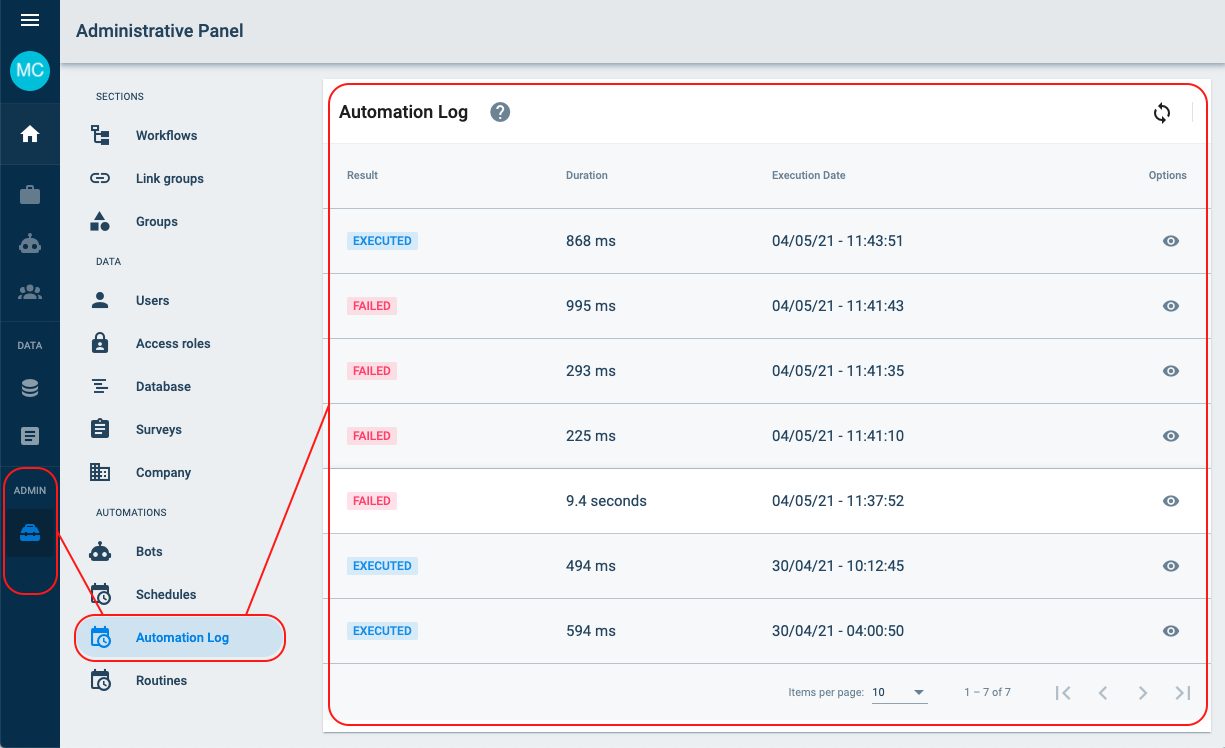
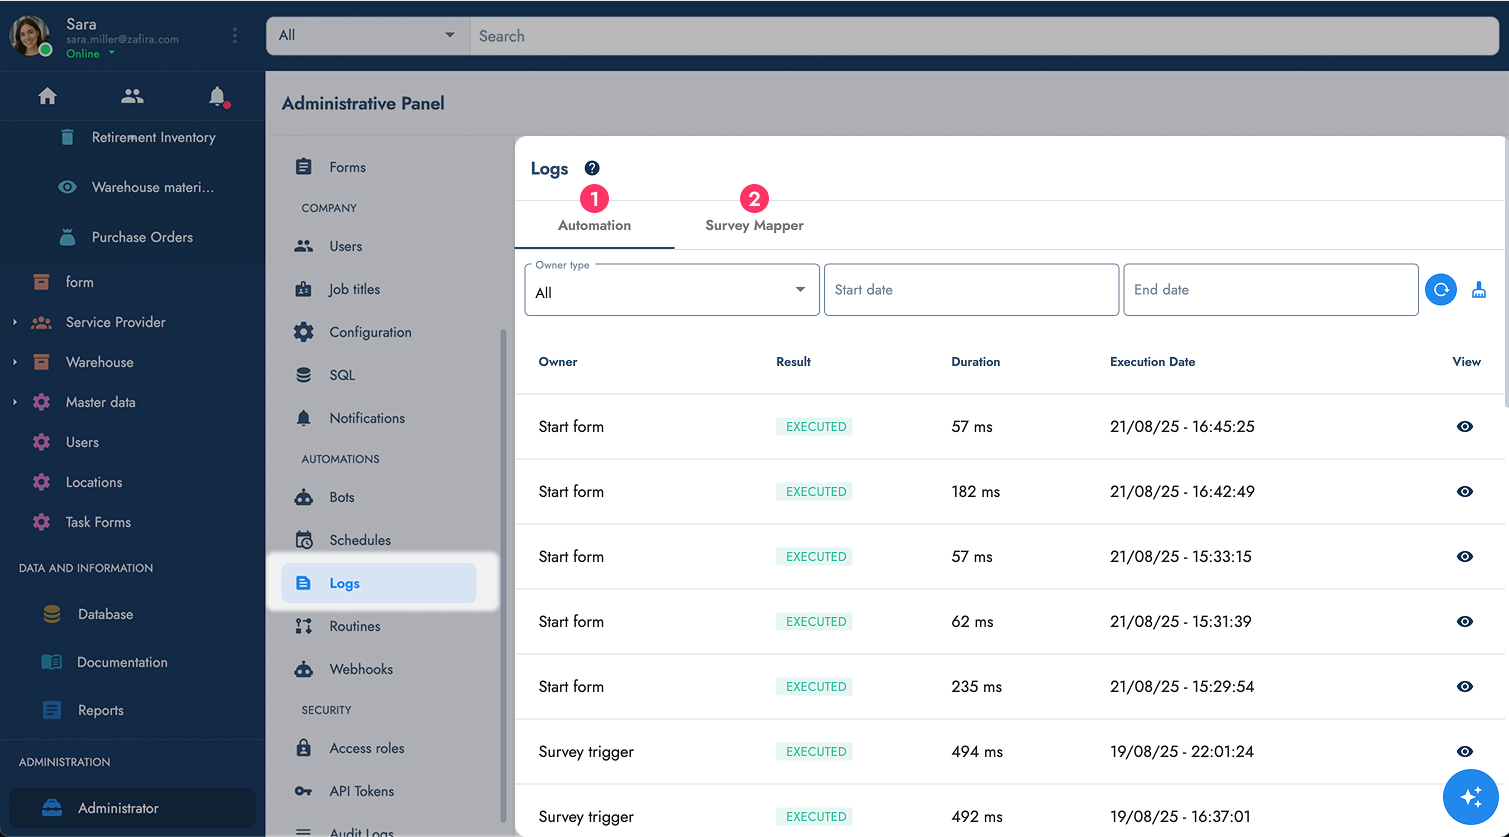
refactor: automation log refactor

diff --git a/docs/documentation/automation/automation_log.md b/docs/documentation/automation/automation_log.md
@@ -14,22 +14,77 @@ Whenever you test a routine (Run Routine) from the _Routine Builder_, the test w
 
 Logs can be accessed directly through the _Administrative Panel_ or anywhere a routine can be built, like workflows, SLAs, or other automations.
 
-## Automation Log List {#log-list}
+## Logs List {#log-list}
 
-<img alt="automation log" className="img_sizing item shadow--tl" src={useBaseUrl('img/automations_log_00.png')} />
+<img alt="automation log" className="img_sizing img_format item shadow--tl" src={useBaseUrl('img/automations_log_00.png')} />
 <br/>
+
+
+<ul>
+  <li>
+    <span className="badge badge--danger">1</span> <strong>Automation logs list:</strong> list of logs for bot, start form, survey trigger, state change, SLAs and custom owner.
+  </li>
+  <li>
+    <span className="badge badge--danger">2</span> <strong>Survey Mapper logs list:</strong> list of logs for survey mapper
+  </li>
+</ul>
+
+
+
+### Filter Bar {#filter-bar}
+The automation log includes a comprehensive filter bar to help you quickly locate specific log entries. The filter options make it easier to search through logs by narrowing down results based on various criteria:
+
+
+<img alt="automation log" className="img_sizing img_format item shadow--tl" src={useBaseUrl('img/automations_log_08.png')} />
+<br/>
+
+<span className="badge badge--danger">1</span> <strong>Owner Type Filter</strong>: Select from the following automation types:
+   <ul>
+      <li><strong>Bot</strong>: Filters logs from bot automations</li>
+      <li><strong>Start Form</strong>: Shows logs from start form automations</li>
+      <li><strong>Survey Trigger</strong>: Displays logs from survey-triggered automations</li>
+      <li><strong>State Change</strong>: Shows logs from workflow state change automations</li>
+      <li><strong>SLA</strong>: Filters logs from SLA-related automations</li>
+      <li><strong>Custom</strong>: Displays logs from custom automation types</li>
+   </ul>
+
+
+<span className="badge badge--danger">2</span> <strong>Workflow Filter</strong>: This dropdown displays all active workflows in your company, allowing you to filter logs by specific workflow processes.
+
+<br/><br/>
+
+<span className="badge badge--danger">3</span> <strong>Dynamic Context Filter</strong>: Based on your selection in the Owner Type filter, this field will dynamically populate with relevant options:
+   <ul>
+      <li>If "Survey Trigger" is selected, it displays survey triggers</li>
+      <li>If "State Change" is selected, it shows available state changes</li>
+      <li>If "SLA" is selected, it lists available SLAs</li>
+   </ul>
+
+<span className="badge badge--danger">4</span> <strong>Date Range Filter</strong>: Filter logs by specifying a start date and end date range, helping you locate logs from specific time periods.
+
+<br/><br/>
+
+<span className="badge badge--danger">5</span> <strong>Refresh Search Button</strong>: Apply the selected filters to update the log list with results matching your filter criteria.
+
+<br/><br/>
+
+<span className="badge badge--danger">6</span> <strong>Clear Filter Button</strong>: Reset all filter selections to their default state, removing any applied filters and displaying the complete log list.
+
+<br/><br/>
+These filters work together to provide a more comfortable and efficient log search experience, allowing you to quickly identify and review specific automation executions.
 
 ### List Details {#settings-panel}
 The initial settings panel displays the list of automations in descending chronological order. It is divided into the following four columns:
 
+- **Owner**: The type of automation log (e.g., Bot, Start Form, Survey Trigger, etc.).
 - **Result**: Possible results are _executed_ or _failed_.
 - **Duration**: Time it takes for an automation to execute. Results return in seconds and milliseconds.
 - **Execution Date**: The date and time the automation executed. The date is in DD/MM/YY format.
-- **Options**: Viewing is the only option, but more alternatives are available once the log is [opened](#automation-log-details).
+- **View**: Click to open the log view and access more information.
 
 :::note
 - Each automation will be stored in the log list for no more than seven days.
-- The automation log list refreshes every minute but can be manually refreshed by pressing the refresh icon found in the upper-right corner.
+- The logs list refreshes every minute but can be manually refreshed by pressing the refresh icon found in the upper-right corner.
 :::
 
 ### Log Details {#automation-log-details}
@@ -37,7 +92,7 @@ Once an automation has been chosen for viewing, a new settings panel will appear
 
 _The settings panel will look something like the following image:_
 
-<img alt="automation log" className="img_sizing item shadow--tl" src={useBaseUrl('img/automations_log_01.png')} />
+<img alt="automation log" className="img_sizing img_format item shadow--tl" src={useBaseUrl('img/automations_log_01.png')} />
 <br/>
 
 The information displayed in the settings panel is divided into the five sections –_log, schedule, context, routine, results_– explained below:
@@ -121,27 +176,27 @@ When errors are caught, the **Error** section appears at the bottom of the setti
 ### Log Lists in Other Places {#other}
 
 _Routine Builders in Workflow States:_
-<img alt="automation log" className="img_sizing item shadow--tl" src={useBaseUrl('img/automations_log_03.png')} />
+<img alt="automation log" className="img_sizing img_format item shadow--tl" src={useBaseUrl('img/automations_log_03.png')} />
 <br/>
 
 _In SLAs:_
-<img alt="sla logs" className="img_sizing item shadow--tl" src={useBaseUrl('img/automations_log_02.png')} />
+<img alt="sla logs" className="img_sizing img_format item shadow--tl" src={useBaseUrl('img/automations_log_02.png')} />
 <br/>
 
 _In other automations:_
-<img alt="sla logs" className="img_sizing item shadow--tl" src={useBaseUrl('img/automations_log_04.png')} />
+<img alt="sla logs" className="img_sizing img_format item shadow--tl" src={useBaseUrl('img/automations_log_04.png')} />
 <br/>
 
 ## Run Routine "Tester" {#tester}
 
-<img alt="run routine" className="img_sizing item shadow--tl" src={useBaseUrl('img/automations_log_06.png')} />
+<img alt="run routine" className="img_sizing img_format item shadow--tl" src={useBaseUrl('img/automations_log_06.png')} />
 <br/>
 
 The <span className="badge badge--primary">Run Routine</span> button is part of the [*Routine Builder*](/docs/documentation/automation/admin_routine). It opens up a window that will help you test and debug your routines while you are building them. The **Run Routine** window has two sections: [_Context_](#context-editor) and [_Automation Log_](#run-routine-automation-log).
 
 _The **Run Routine** window will look something like this:_
 
-<img alt="run routine" className="img_sizing item shadow--tl" src={useBaseUrl('img/automations_log_07.png')} />
+<img alt="run routine" className="img_sizing img_format item shadow--tl" src={useBaseUrl('img/automations_log_07.png')} />
 <br/>
 
 ### Context Editor {#context-editor}
